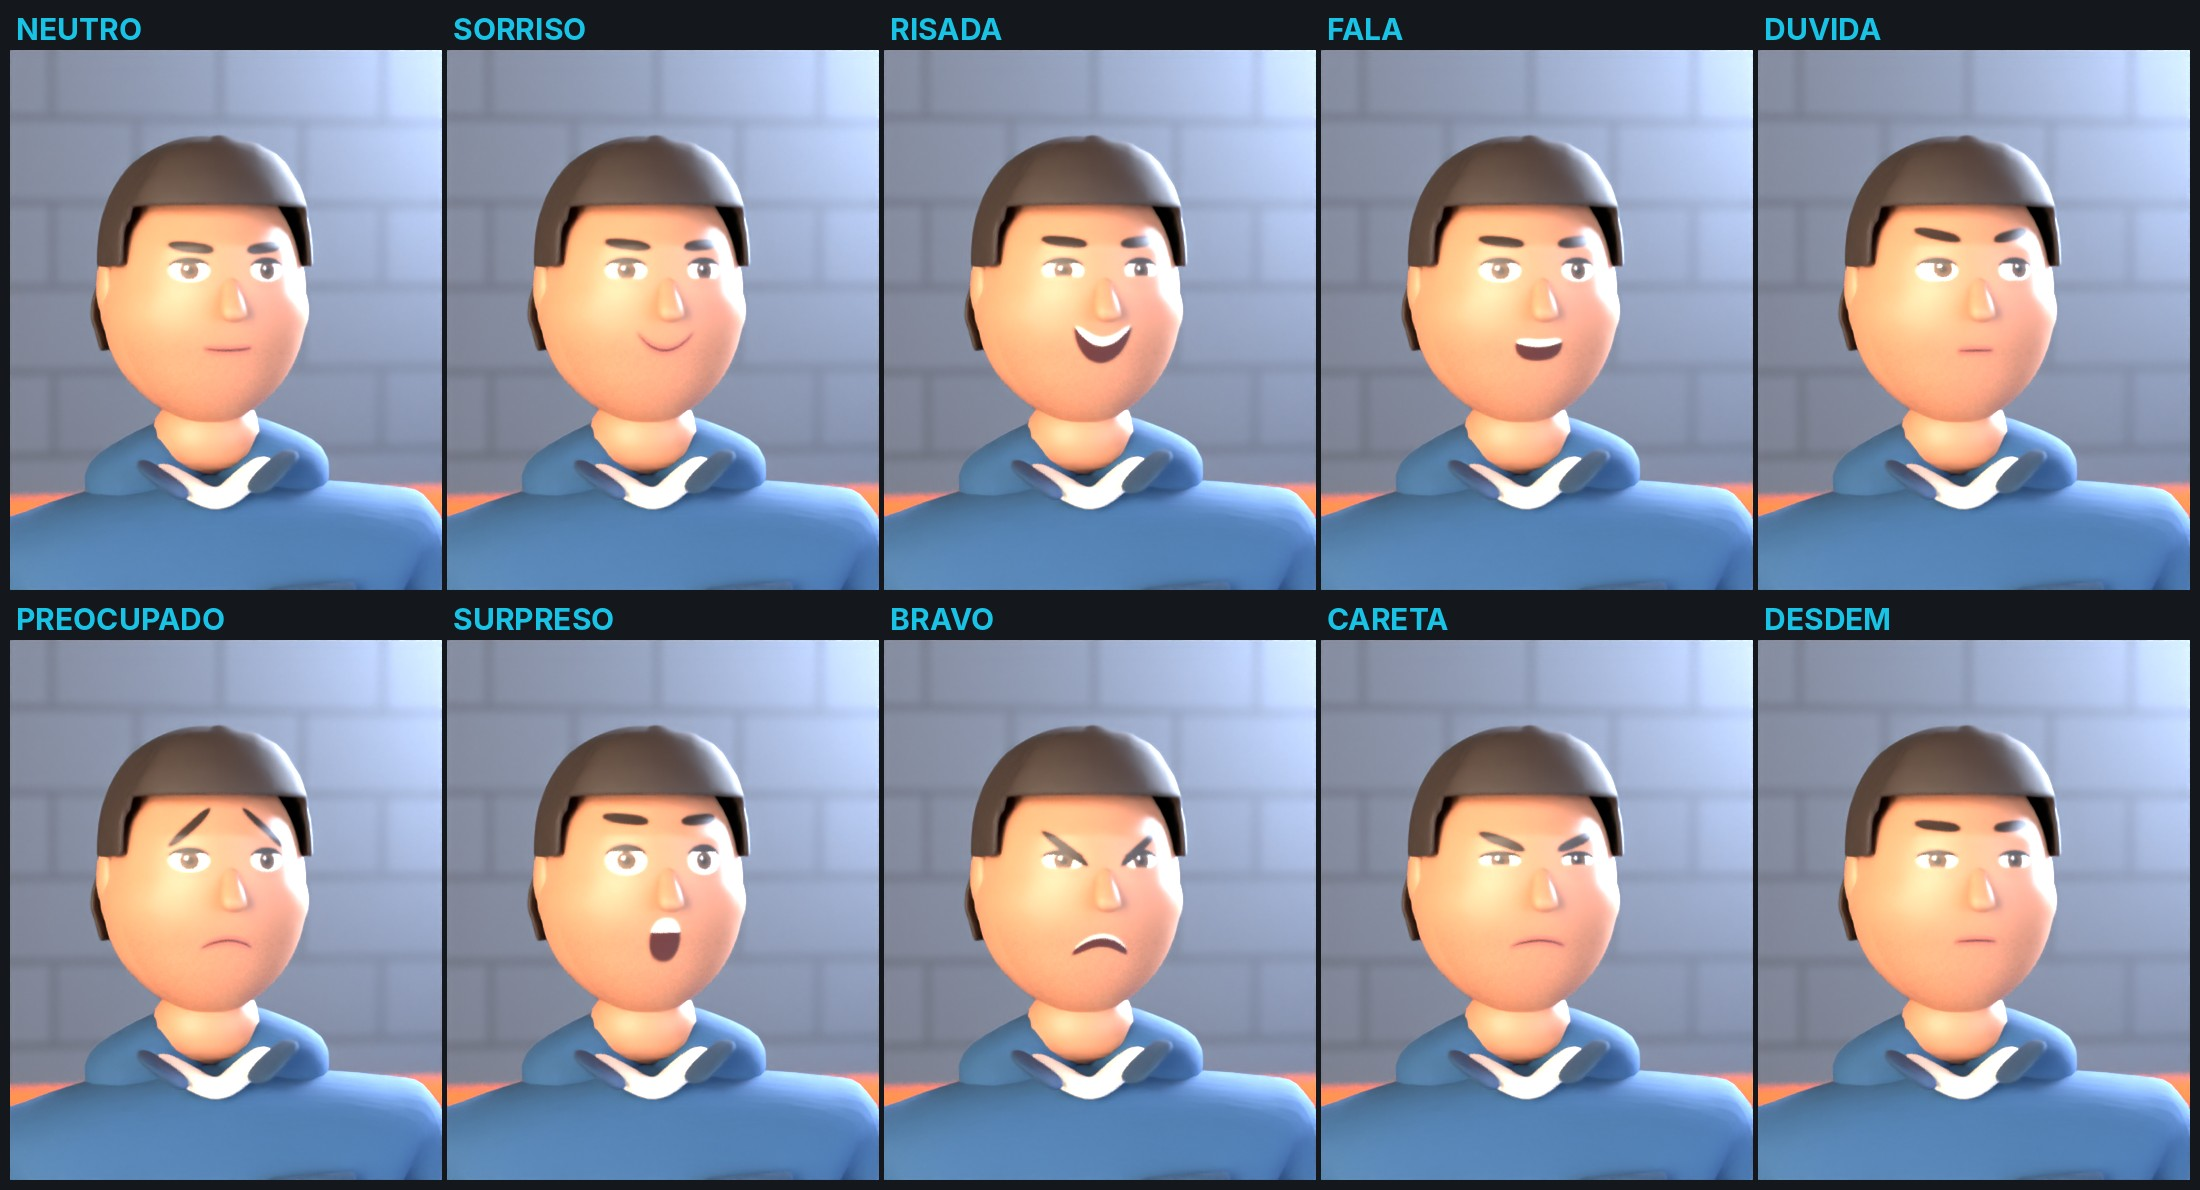
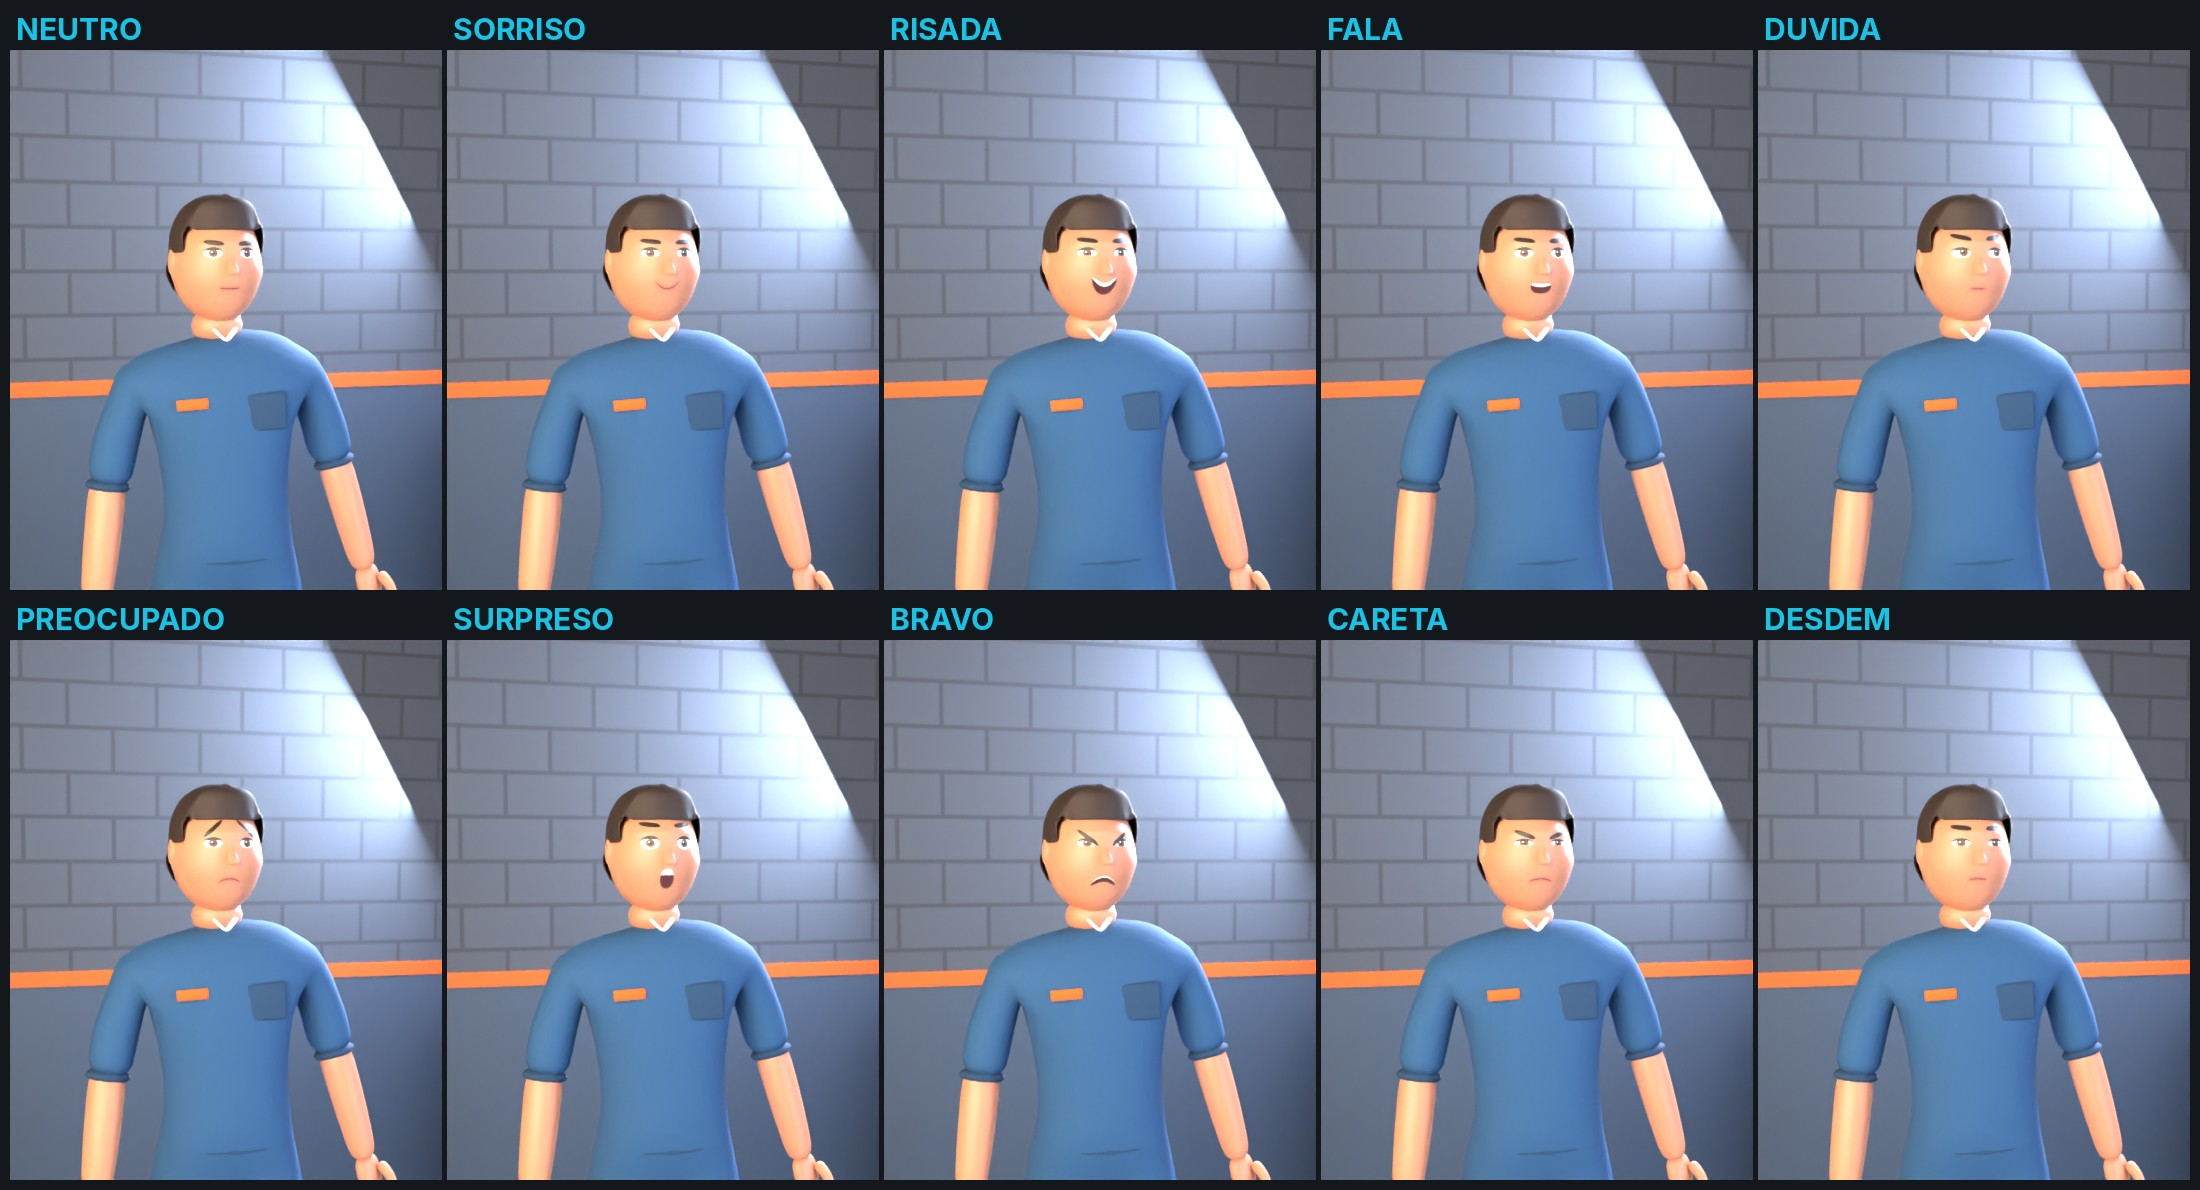
Boneco: pescoço/gola/ombros contínuos (sem bolotas), maxilar mais estreito, cabelo afinando na borda; plano médio nos testes
Claude-Session: https://claude.ai/code/session_01LTuGaoNMB16qvfW22NeZiH

diff --git a/motor3d/boneco_adulto.py b/motor3d/boneco_adulto.py
@@ -238,7 +238,7 @@ def _forma(x, y, z):
     sz = 0.118 if z > 0 else 0.132
     if z < 0:
         t = -z
-        sx *= 1.0 + 0.12 * math.sin(math.pi * min(t, 1.0) * 0.8) - 0.12 * t ** 4      # maxilar largo, queixo largo
+        sx *= 1.0 + 0.06 * math.sin(math.pi * min(t, 1.0) * 0.8) - 0.14 * t ** 4      # maxilar largo, queixo largo
         sy *= 1.0 - 0.1 * t ** 2
         if t < 0.3 and abs(x) > 0.55:               # maçãs do rosto
             sx *= 1.04
@@ -281,11 +281,12 @@ def _cabelo_malha(name, m, corte="curto"):
             infla = 0.008 + 0.03 * topo + 0.012 * topete * topo
         elif corte == "raspado":       # máquina: rente, quase só cor
             infla = 0.003 + 0.004 * topo
-        v.co = _forma(x, y, z) + n * infla
+        borda = min(1.0, (z - limite) / 0.25)      # afina na borda (sem degrau de "capacete")
+        v.co = _forma(x, y, z) + n * (infla * borda + 0.0015)
     bmesh.ops.delete(bm, geom=apagar, context="VERTS")
     o = _liso(mt.mesh_obj(name, bm, m))
     so = o.modifiers.new("esp", "SOLIDIFY")
-    so.thickness = 0.006
+    so.thickness = 0.003
     so.offset = 1.0
     _sub(o, 2)
     return o
@@ -459,14 +460,14 @@ def ze_adulto(name, M, pose="parado", expressao="neutro", olhar=(0.0, 0.0), roup
     Z["arm"] = arm
     if not civil:
         # ---- macacão: tronco + pernas + mangas até o cotovelo (manga arregaçada)
-        P = [(0, 0, 0.95), (0, -0.02, 1.06), (0, 0, 1.24), (0, 0, 1.38), (0, 0, 1.47),           # 0-4 quadril..pescoço
+        P = [(0, 0, 0.95), (0, -0.02, 1.06), (0, 0, 1.24), (0, 0, 1.38), (0, 0.005, 1.5),        # 0-4 quadril..gola
              (0.105, 0, 0.9), (0.11, 0, 0.72), (0.11, -0.005, 0.5), (0.11, 0.005, 0.36), (0.115, 0, 0.16),   # 5-9
              (-0.105, 0, 0.9), (-0.11, 0, 0.72), (-0.11, -0.005, 0.5), (-0.11, 0.005, 0.36), (-0.115, 0, 0.16),
              (0.2, 0.0, 1.37), (0.228, 0.01, 1.25), (0.245, 0.01, 1.13),                       # 15-17 manga esq.
              (-0.2, 0.0, 1.37), (-0.228, 0.01, 1.25), (-0.245, 0.01, 1.13)]                    # 18-20
         A = [(0, 1), (1, 2), (2, 3), (3, 4), (0, 5), (5, 6), (6, 7), (7, 8), (8, 9), (0, 10), (10, 11), (11, 12),
              (12, 13), (13, 14), (3, 15), (15, 16), (16, 17), (3, 18), (18, 19), (19, 20)]
-        Rr = [(0.175, 0.135), (0.18, 0.155), (0.205, 0.15), (0.2, 0.13), (0.07, 0.065),
+        Rr = [(0.175, 0.135), (0.18, 0.155), (0.205, 0.15), (0.2, 0.13), (0.098, 0.085),
               (0.1, 0.098), (0.095, 0.093), (0.068, 0.068), (0.074, 0.074), (0.085, 0.085),
               (0.1, 0.098), (0.095, 0.093), (0.068, 0.068), (0.074, 0.074), (0.085, 0.085),
               (0.078, 0.07), (0.06, 0.058), (0.057, 0.057), (0.078, 0.07), (0.06, 0.058), (0.057, 0.057)]
@@ -482,7 +483,7 @@ def ze_adulto(name, M, pose="parado", expressao="neutro", olhar=(0.0, 0.0), roup
         P = [(0, 0, 0.925), (0, -0.016, 1.06), (0, 0, 1.24), (0, 0, 1.38), (0, 0, 1.47),
              (0.2, 0.0, 1.37), (0.226, 0.01, 1.255), (-0.2, 0.0, 1.37), (-0.226, 0.01, 1.255)]
         A = [(0, 1), (1, 2), (2, 3), (3, 4), (3, 5), (5, 6), (3, 7), (7, 8)]
-        Rr = [(0.182, 0.142), (0.18, 0.15), (0.2, 0.145), (0.198, 0.128), (0.07, 0.065),
+        Rr = [(0.182, 0.142), (0.18, 0.15), (0.2, 0.145), (0.198, 0.128), (0.105, 0.088),
               (0.074, 0.068), (0.064, 0.06), (0.074, 0.068), (0.064, 0.06)]
         G = ["quadril", "quadril", "tronco", "tronco", "pescoco", "tronco", "ombro_e", "tronco", "ombro_d"]
         if regata:          # sem manga: só o tronco; ombro e braço de pele (alças implícitas)
@@ -525,10 +526,7 @@ def ze_adulto(name, M, pose="parado", expressao="neutro", olhar=(0.0, 0.0), roup
     dp.texture_coords = "LOCAL"
     Z["corpo"] = corpo
     # trapézios (e, no macacão, o cós da cintura)
-    for s_ in (1, -1):
-        tp = skin(f"{name}_trapezio{s_}", [(0, 0.02, 1.47), (s_ * 0.13, 0.012, 1.41)], [(0, 1)],
-                  [(0.055, 0.05), (0.06, 0.05)], m_trap, parent=root)
-        _deforma(tp, arm, ["pescoco", "tronco"])
+    # (o ombro desce em curva até a gola pelo próprio nó do pescoço do tronco: sem peças de trapézio soltas)
     if not civil:
         cos = skin(name + "_cos", [(0, -0.008, 0.955), (0, -0.008, 0.99)], [(0, 1)], [(0.186, 0.148), (0.186, 0.15)],
                    M["ad_macacao_esc"], parent=root)
@@ -543,18 +541,16 @@ def ze_adulto(name, M, pose="parado", expressao="neutro", olhar=(0.0, 0.0), roup
                          [(0.062, 0.06), (0.062, 0.06)], M["ad_macacao_esc"], parent=root)
             _deforma(dobra, arm, [f"cotovelo_{l}", f"cotovelo_{l}"])
     # pescoço
-    pc = skin(name + "_pescoco", [(0, 0.008, 1.43), (0, 0.008, 1.535)], [(0, 1)], [(0.074, 0.07), (0.07, 0.066)],
+    pc = skin(name + "_pescoco", [(0, 0.008, 1.44), (0, 0.008, 1.54)], [(0, 1)], [(0.082, 0.076), (0.072, 0.068)],
               m_pele, parent=root)
     _deforma(pc, arm, ["tronco", "pescoco"])
     tronco, quadril = [], []
     canelas = {"e": [], "d": []}
     if not civil:
         # gola com camiseta, faixas refletivas laranja (canelas e braços), bolso, pano, botas
-        tronco.append(skin(name + "_gola", [(-0.06, -0.03, 1.455), (0, -0.065, 1.42), (0.06, -0.03, 1.455)],
-                           [(0, 1), (1, 2)], [(0.018, 0.01), (0.022, 0.012), (0.018, 0.01)], M["ad_camiseta"]))
-        for s in (1, -1):
-            tronco.append(skin(f"{name}_lapela{s}", [(s * 0.03, -0.085, 1.43), (s * 0.08, -0.07, 1.47)], [(0, 1)],
-                               [(0.03, 0.006), (0.024, 0.006)], M["ad_macacao_esc"]))
+        # gola: o próprio macacão sobe até o pescoço (nó 4 do tronco); por baixo, um "V" pequeno da camiseta
+        tronco.append(skin(name + "_camiseta_v", [(-0.028, -0.086, 1.49), (0, -0.094, 1.46), (0.028, -0.086, 1.49)],
+                           [(0, 1), (1, 2)], [(0.012, 0.004), (0.014, 0.004), (0.012, 0.004)], M["ad_camiseta"]))
         bo = mt.box(name + "_bolso", -0.045, 0.045, -0.006, 0.006, -0.05, 0.035, M["ad_macacao_esc"], anchor="center")
         bo.location = (0.08, -0.112, 1.3)
         _bevel(bo, 0.006)

diff --git a/videos/_expressoes/expressoes.py b/videos/_expressoes/expressoes.py
@@ -32,11 +32,11 @@ def cena(roupa="mecanico", dur=1.0):
         d = bpy.data.lights.new("a", "AREA"); d.energy, d.size = e, tam; d.color = mt.lin(cor)[:3]
         o = mt.link(bpy.data.objects.new("a", d)); o.location = pos
         o.rotation_mode = "QUATERNION"; o.rotation_quaternion = (Vector((0, 0, 1.62)) - Vector(pos)).to_track_quat("-Z", "Y")
-    cd = bpy.data.cameras.new("c"); cd.lens = 85
-    cd.dof.use_dof = True; cd.dof.focus_distance = 1.35; cd.dof.aperture_fstop = 2.8
+    cd = bpy.data.cameras.new("c"); cd.lens = 50          # plano médio (do peito para cima), sem close colado
+    cd.dof.use_dof = True; cd.dof.focus_distance = 1.75; cd.dof.aperture_fstop = 5.6
     cam = mt.link(bpy.data.objects.new("c", cd)); sc.camera = cam
-    cam.location = (-0.18, -1.32, 1.66)
-    cam.rotation_mode = "QUATERNION"; cam.rotation_quaternion = (Vector((0, 0, 1.6)) - cam.location).to_track_quat("-Z", "Y")
+    cam.location = (-0.35, -1.7, 1.62)
+    cam.rotation_mode = "QUATERNION"; cam.rotation_quaternion = (Vector((0, 0, 1.5)) - cam.location).to_track_quat("-Z", "Y")
     return sc, Z
 
 
